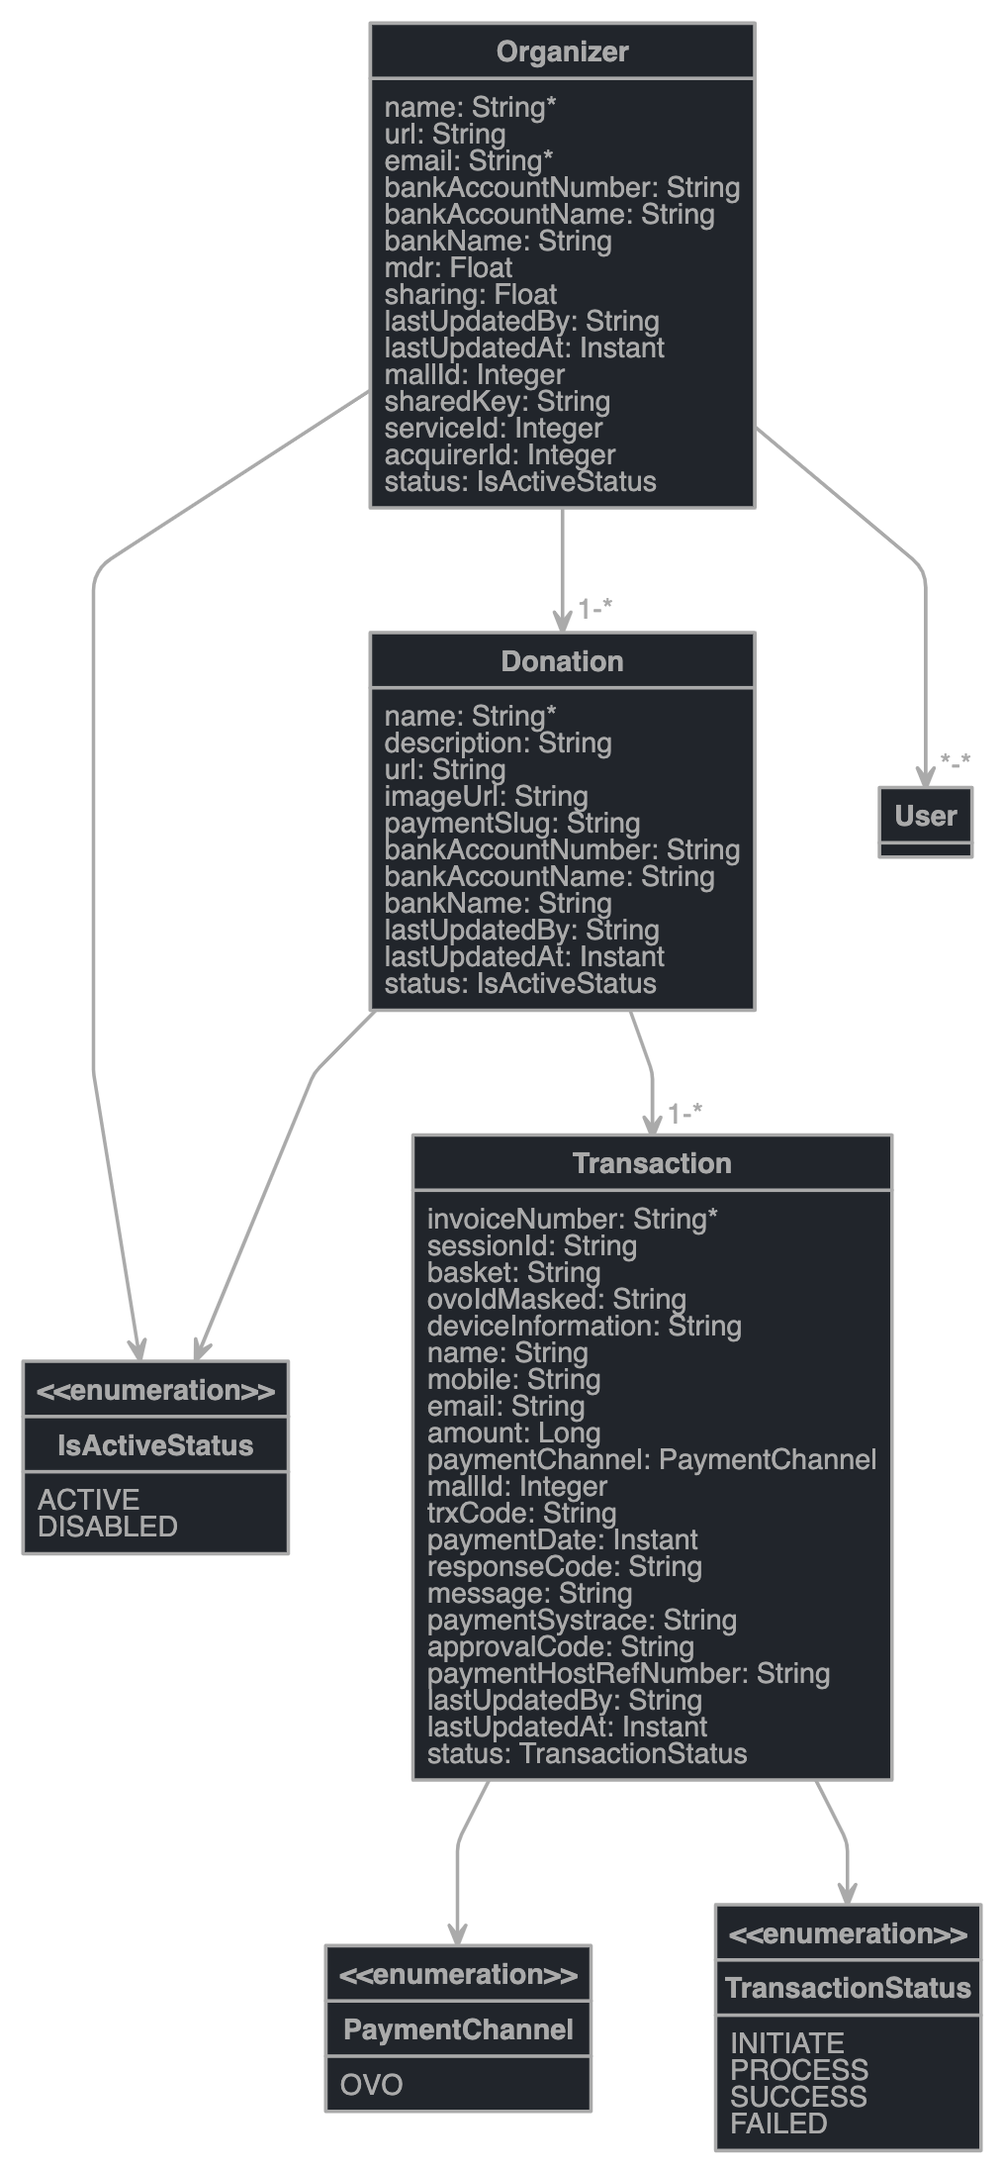
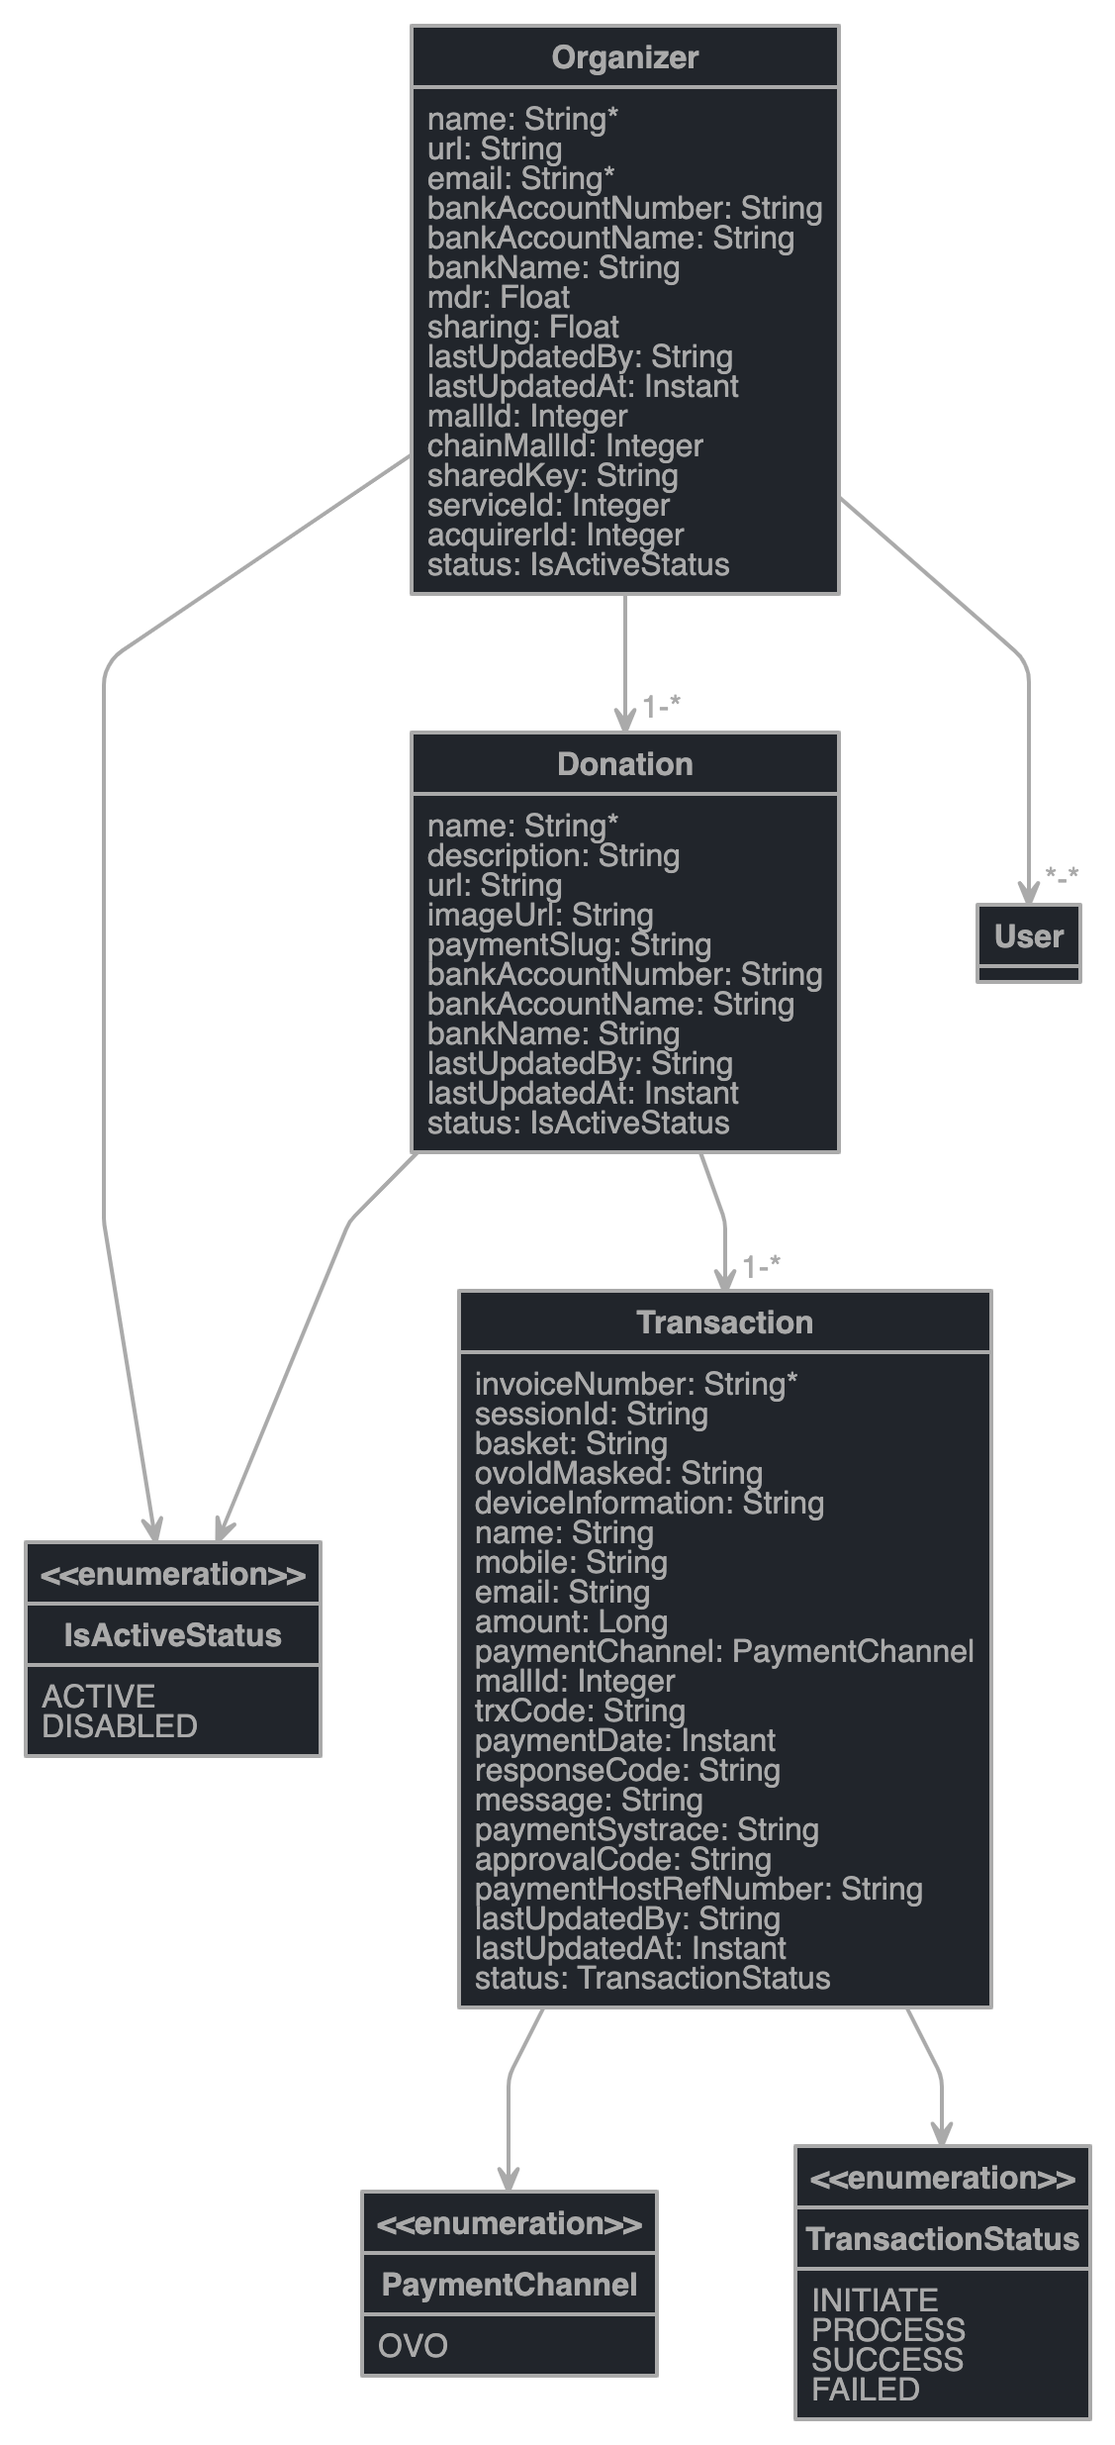
Adding MIB parameter chainMallId.

diff --git a/src/main/webapp/app/entities/organizer/organizer-update.component.html b/src/main/webapp/app/entities/organizer/organizer-update.component.html
@@ -171,10 +171,18 @@
 
                     <div class="my-4">
                         <label class="block text-gray-700 text-sm font-semibold mb-2"
-                            jhiTranslate="donationApp.organizer.mallId" for="field_mallId">Mall Id</label>
+                            jhiTranslate="donationApp.organizer.mallId" for="field_mallId">Mall ID</label>
                         <input type="number"
                             class="text-sm appearance-none rounded w-full py-2 px-3 text-gray-700 bg-gray-200 disabled:bg-gray-400 disabled:cursor-not-allowed leading-tight focus:outline-none focus:shadow-outline h-10"
                             name="mallId" id="field_mallId" formControlName="mallId" />
+                    </div>
+
+                    <div class="my-4">
+                        <label class="block text-gray-700 text-sm font-semibold mb-2"
+                            jhiTranslate="donationApp.organizer.chainMallId" for="field_chainMallId">Chain Mall ID</label>
+                        <input type="number"
+                            class="text-sm appearance-none rounded w-full py-2 px-3 text-gray-700 bg-gray-200 disabled:bg-gray-400 disabled:cursor-not-allowed leading-tight focus:outline-none focus:shadow-outline h-10"
+                            name="chainMallId" id="field_chainMallId" formControlName="chainMallId" />
                     </div>
 
                     <div class="my-4">
@@ -187,7 +195,7 @@
 
                     <div class="my-4">
                         <label class="block text-gray-700 text-sm font-semibold mb-2"
-                            jhiTranslate="donationApp.organizer.serviceId" for="field_serviceId">Service Id</label>
+                            jhiTranslate="donationApp.organizer.serviceId" for="field_serviceId">Service ID</label>
                         <input type="number"
                             class="text-sm appearance-none rounded w-full py-2 px-3 text-gray-700 bg-gray-200 disabled:bg-gray-400 disabled:cursor-not-allowed leading-tight focus:outline-none focus:shadow-outline h-10"
                             name="serviceId" id="field_serviceId" formControlName="serviceId" />
@@ -195,12 +203,12 @@
 
                     <div class="my-4">
                         <label class="block text-gray-700 text-sm font-semibold mb-2"
-                            jhiTranslate="donationApp.organizer.acquirerId" for="field_acquirerId">Acquirer Id</label>
+                            jhiTranslate="donationApp.organizer.acquirerId" for="field_acquirerId">Acquirer ID</label>
                         <input type="number"
                             class="text-sm appearance-none rounded w-full py-2 px-3 text-gray-700 bg-gray-200 disabled:bg-gray-400 disabled:cursor-not-allowed leading-tight focus:outline-none focus:shadow-outline h-10"
                             name="acquirerId" id="field_acquirerId" formControlName="acquirerId" />
                     </div>
-
+                    
                     <div class="my-4">
                         <label class="block text-gray-700 text-sm font-semibold mb-2"
                             jhiTranslate="donationApp.organizer.status" for="field_status">Status</label>

diff --git a/src/main/webapp/app/entities/organizer/organizer-update.component.ts b/src/main/webapp/app/entities/organizer/organizer-update.component.ts
@@ -29,6 +29,7 @@ export class OrganizerUpdateComponent implements OnInit {
     mdr: [null, [Validators.max(100)]],
     sharing: [null, [Validators.max(100)]],
     mallId: [],
+    chainMallId: [],
     sharedKey: [],
     serviceId: [],
     acquirerId: [],
@@ -64,6 +65,7 @@ export class OrganizerUpdateComponent implements OnInit {
       mdr: organizer.mdr,
       sharing: organizer.sharing,
       mallId: organizer.mallId,
+      chainMallId: organizer.chainMallId,
       sharedKey: organizer.sharedKey,
       serviceId: organizer.serviceId,
       acquirerId: organizer.acquirerId,
@@ -99,6 +101,7 @@ export class OrganizerUpdateComponent implements OnInit {
       mdr: this.editForm.get(['mdr'])!.value,
       sharing: this.editForm.get(['sharing'])!.value,
       mallId: this.editForm.get(['mallId'])!.value,
+      chainMallId: this.editForm.get(['chainMallId'])!.value,
       sharedKey: this.editForm.get(['sharedKey'])!.value,
       serviceId: this.editForm.get(['serviceId'])!.value,
       acquirerId: this.editForm.get(['acquirerId'])!.value,

diff --git a/src/test/javascript/spec/app/entities/organizer/organizer.service.spec.ts b/src/test/javascript/spec/app/entities/organizer/organizer.service.spec.ts
@@ -38,6 +38,7 @@ describe('Service Tests', () => {
         'AAAAAAA',
         currentDate,
         0,
+        0,
         'AAAAAAA',
         0,
         0,
@@ -98,6 +99,7 @@ describe('Service Tests', () => {
             lastUpdatedBy: 'BBBBBB',
             lastUpdatedAt: currentDate.format(DATE_TIME_FORMAT),
             mallId: 1,
+            chainMallId: 1,
             sharedKey: 'BBBBBB',
             serviceId: 1,
             acquirerId: 1,
@@ -134,6 +136,7 @@ describe('Service Tests', () => {
             lastUpdatedBy: 'BBBBBB',
             lastUpdatedAt: currentDate.format(DATE_TIME_FORMAT),
             mallId: 1,
+            chainMallId: 1,
             sharedKey: 'BBBBBB',
             serviceId: 1,
             acquirerId: 1,

diff --git a/src/main/webapp/app/entities/organizer/organizer-detail.component.html b/src/main/webapp/app/entities/organizer/organizer-detail.component.html
@@ -89,6 +89,11 @@
                 </div>
 
                 <div class="mb-2 text-gray-800">
+                    <span jhiTranslate="donationApp.organizer.chainMallId">Chain Mall ID</span></dt>
+                    <span>{{ organizer.chainMallId }}</span>
+                </div>
+
+                <div class="mb-2 text-gray-800">
                     <span class="font-semibold" jhiTranslate="donationApp.organizer.sharedKey">Shared Key</span>:
                     <span>{{ organizer.sharedKey }}</span>
                 </div>

diff --git a/src/main/webapp/app/shared/model/organizer.model.ts b/src/main/webapp/app/shared/model/organizer.model.ts
@@ -16,6 +16,7 @@ export interface IOrganizer {
   lastUpdatedBy?: string;
   lastUpdatedAt?: Moment;
   mallId?: number;
+  chainMallId?: number;
   sharedKey?: string;
   serviceId?: number;
   acquirerId?: number;
@@ -38,6 +39,7 @@ export class Organizer implements IOrganizer {
     public lastUpdatedBy?: string,
     public lastUpdatedAt?: Moment,
     public mallId?: number,
+    public chainMallId?: number,
     public sharedKey?: string,
     public serviceId?: number,
     public acquirerId?: number,

diff --git a/src/main/webapp/app/payment/payment.component.html b/src/main/webapp/app/payment/payment.component.html
@@ -122,6 +122,7 @@
                                     *ngIf="paymentForm.get('donor')?.errors?.required"
                                     jhiTranslate="payment.section.form.validation.required">
                                     Please input your name, otherwise you may tick the anonymous checkbox.
+                                </small>
                             </div>
                         </div>
 

diff --git a/src/test/java/men/doku/donation/web/rest/OrganizerResourceIT.java b/src/test/java/men/doku/donation/web/rest/OrganizerResourceIT.java
@@ -82,6 +82,9 @@ public class OrganizerResourceIT {
     private static final Integer DEFAULT_MALL_ID = 1;
     private static final Integer UPDATED_MALL_ID = 2;
 
+    private static final Integer DEFAULT_CHAIN_MALL_ID = 1;
+    private static final Integer UPDATED_CHAIN_MALL_ID = 2;
+
     private static final String DEFAULT_SHARED_KEY = "AAAAAAAAAA";
     private static final String UPDATED_SHARED_KEY = "BBBBBBBBBB";
 
@@ -133,6 +136,7 @@ public class OrganizerResourceIT {
             .lastUpdatedBy(DEFAULT_LAST_UPDATED_BY)
             .lastUpdatedAt(DEFAULT_LAST_UPDATED_AT)
             .mallId(DEFAULT_MALL_ID)
+            .chainMallId(DEFAULT_CHAIN_MALL_ID)
             .sharedKey(DEFAULT_SHARED_KEY)
             .serviceId(DEFAULT_SERVICE_ID)
             .acquirerId(DEFAULT_ACQUIRER_ID)
@@ -158,6 +162,7 @@ public class OrganizerResourceIT {
             .lastUpdatedBy(UPDATED_LAST_UPDATED_BY)
             .lastUpdatedAt(UPDATED_LAST_UPDATED_AT)
             .mallId(UPDATED_MALL_ID)
+            .chainMallId(UPDATED_CHAIN_MALL_ID)
             .sharedKey(UPDATED_SHARED_KEY)
             .serviceId(UPDATED_SERVICE_ID)
             .acquirerId(UPDATED_ACQUIRER_ID)
@@ -196,6 +201,7 @@ public class OrganizerResourceIT {
         assertThat(testOrganizer.getLastUpdatedBy()).isEqualTo(DEFAULT_LAST_UPDATED_BY);
         assertThat(testOrganizer.getLastUpdatedAt()).isEqualTo(DEFAULT_LAST_UPDATED_AT);
         assertThat(testOrganizer.getMallId()).isEqualTo(DEFAULT_MALL_ID);
+        assertThat(testOrganizer.getChainMallId()).isEqualTo(DEFAULT_CHAIN_MALL_ID);
         assertThat(testOrganizer.getSharedKey()).isEqualTo(DEFAULT_SHARED_KEY);
         assertThat(testOrganizer.getServiceId()).isEqualTo(DEFAULT_SERVICE_ID);
         assertThat(testOrganizer.getAcquirerId()).isEqualTo(DEFAULT_ACQUIRER_ID);
@@ -280,14 +286,16 @@ public class OrganizerResourceIT {
             .andExpect(jsonPath("$.[*].lastUpdatedBy").value(hasItem(DEFAULT_LAST_UPDATED_BY)))
             .andExpect(jsonPath("$.[*].lastUpdatedAt").value(hasItem(DEFAULT_LAST_UPDATED_AT.toString())))
             .andExpect(jsonPath("$.[*].mallId").value(hasItem(DEFAULT_MALL_ID)))
+            .andExpect(jsonPath("$.[*].chainMallId").value(hasItem(DEFAULT_CHAIN_MALL_ID)))
             .andExpect(jsonPath("$.[*].sharedKey").value(hasItem(DEFAULT_SHARED_KEY)))
             .andExpect(jsonPath("$.[*].serviceId").value(hasItem(DEFAULT_SERVICE_ID)))
             .andExpect(jsonPath("$.[*].acquirerId").value(hasItem(DEFAULT_ACQUIRER_ID)))
             .andExpect(jsonPath("$.[*].status").value(hasItem(DEFAULT_STATUS.toString())));
     }
     
+    @SuppressWarnings({"unchecked"})
     public void getAllOrganizersWithEagerRelationshipsIsEnabled() throws Exception {
-        when(organizerServiceMock.findAllWithEagerRelationships(any())).thenReturn(new PageImpl<>(new ArrayList<>()));
+        when(organizerServiceMock.findAllWithEagerRelationships(any())).thenReturn(new PageImpl(new ArrayList<>()));
 
         restOrganizerMockMvc.perform(get("/api/organizers?eagerload=true"))
             .andExpect(status().isOk());
@@ -326,6 +334,7 @@ public class OrganizerResourceIT {
             .andExpect(jsonPath("$.lastUpdatedBy").value(DEFAULT_LAST_UPDATED_BY))
             .andExpect(jsonPath("$.lastUpdatedAt").value(DEFAULT_LAST_UPDATED_AT.toString()))
             .andExpect(jsonPath("$.mallId").value(DEFAULT_MALL_ID))
+            .andExpect(jsonPath("$.chainMallId").value(DEFAULT_CHAIN_MALL_ID))
             .andExpect(jsonPath("$.sharedKey").value(DEFAULT_SHARED_KEY))
             .andExpect(jsonPath("$.serviceId").value(DEFAULT_SERVICE_ID))
             .andExpect(jsonPath("$.acquirerId").value(DEFAULT_ACQUIRER_ID))
@@ -364,6 +373,7 @@ public class OrganizerResourceIT {
             .lastUpdatedBy(UPDATED_LAST_UPDATED_BY)
             .lastUpdatedAt(UPDATED_LAST_UPDATED_AT)
             .mallId(UPDATED_MALL_ID)
+            .chainMallId(UPDATED_CHAIN_MALL_ID)
             .sharedKey(UPDATED_SHARED_KEY)
             .serviceId(UPDATED_SERVICE_ID)
             .acquirerId(UPDATED_ACQUIRER_ID)
@@ -389,6 +399,7 @@ public class OrganizerResourceIT {
         assertThat(testOrganizer.getLastUpdatedBy()).isEqualTo(UPDATED_LAST_UPDATED_BY);
         assertThat(testOrganizer.getLastUpdatedAt()).isEqualTo(UPDATED_LAST_UPDATED_AT);
         assertThat(testOrganizer.getMallId()).isEqualTo(UPDATED_MALL_ID);
+        assertThat(testOrganizer.getChainMallId()).isEqualTo(UPDATED_CHAIN_MALL_ID);
         assertThat(testOrganizer.getSharedKey()).isEqualTo(UPDATED_SHARED_KEY);
         assertThat(testOrganizer.getServiceId()).isEqualTo(UPDATED_SERVICE_ID);
         assertThat(testOrganizer.getAcquirerId()).isEqualTo(UPDATED_ACQUIRER_ID);

diff --git a/src/main/java/men/doku/donation/service/dto/MibResponseDTO.java b/src/main/java/men/doku/donation/service/dto/MibResponseDTO.java
@@ -6,6 +6,7 @@ import javax.xml.bind.annotation.XmlRootElement;
 public class MibResponseDTO {
 
     private Integer mallId;
+    private Integer chainMallId;
     private String trxCode;
     private String auth1;
     private String invoiceNumber;
@@ -31,6 +32,7 @@ public class MibResponseDTO {
      * Constructor with all attribute
      * 
      * @param mallId merchant identifier
+     * @param chainMallId merchant chain identifier
      * @param trxCode MIB system identifier
      * @param auth1 masked OVO ID 
      * @param invoiceNumber Merchant transaction identifier
@@ -45,10 +47,11 @@ public class MibResponseDTO {
      * @param approvalCode payment success identifier from OVO
      * @param paymentHostRefNumber payment identifier from OVO
      */
-    public MibResponseDTO(Integer mallId, String trxCode, String auth1, String invoiceNumber, String amount,
+    public MibResponseDTO(Integer mallId, Integer chainMallId, String trxCode, String auth1, String invoiceNumber, String amount,
             String currency, String sessionId, Long paymentDate, String result, String responseCode, String message,
             String paymentSystrace, String approvalCode, String paymentHostRefNumber) {
         this.mallId = mallId;
+        this.chainMallId = chainMallId;
         this.trxCode = trxCode;
         this.auth1 = auth1;
         this.invoiceNumber = invoiceNumber;
@@ -70,6 +73,14 @@ public class MibResponseDTO {
 
     public void setMallId(Integer mallId) {
         this.mallId = mallId;
+    }
+
+    public Integer getChainMallId() {
+        return chainMallId;
+    }
+
+    public void setChainMallId(Integer chainMallId) {
+        this.chainMallId = chainMallId;
     }
 
     public String getTrxCode() {
@@ -178,7 +189,7 @@ public class MibResponseDTO {
 
     @Override
     public String toString() {
-        return "MibResponseDTO [amount=" + amount + ", approvalCode=" + approvalCode + ", auth1=" + auth1
+        return "MibResponseDTO [amount=" + amount + ", approvalCode=" + approvalCode + ", auth1=" + auth1 + ", chainMallId=" + chainMallId
                 + ", currency=" + currency + ", invoiceNumber=" + invoiceNumber + ", mallId=" + mallId + ", message="
                 + message + ", paymentDate=" + paymentDate + ", paymentHostRefNumber=" + paymentHostRefNumber
                 + ", paymentSysTrace=" + paymentSystrace + ", responseCode=" + responseCode + ", result=" + result

diff --git a/src/main/java/men/doku/donation/service/dto/MibRequestDTO.java b/src/main/java/men/doku/donation/service/dto/MibRequestDTO.java
@@ -3,6 +3,7 @@ package men.doku.donation.service.dto;
 public class MibRequestDTO {
 
     private String MALLID;
+    private String CHAINMALLID;
     private String SERVICEID;
     private String ACQUIRERID;
     private String INVOICENUMBER;
@@ -16,9 +17,10 @@ public class MibRequestDTO {
     public MibRequestDTO() {
     }
 
-    public MibRequestDTO(String mALLID, String sERVICEID, String aCQUIRERID, String iNVOICENUMBER, String cURRENCY,
+    public MibRequestDTO(String mALLID, String cHAINMALLID, String sERVICEID, String aCQUIRERID, String iNVOICENUMBER, String cURRENCY,
     String aMOUNT, String sESSIONID, String aUTH1, String bASKET, String wORDS) {
         this.MALLID = mALLID;
+        this.CHAINMALLID = cHAINMALLID;
         this.SERVICEID = sERVICEID;
         this.ACQUIRERID = aCQUIRERID;
         this.INVOICENUMBER = iNVOICENUMBER;
@@ -36,6 +38,14 @@ public class MibRequestDTO {
 
     public void setMALLID(String mALLID) {
         this.MALLID = mALLID;
+    }
+
+    public String getCHAINMALLID() {
+        return CHAINMALLID;
+    }
+
+    public void setCHAINMALLID(String cHAINMALLID) {
+        this.CHAINMALLID = cHAINMALLID;
     }
 
     public String getSERVICEID() {
@@ -113,7 +123,7 @@ public class MibRequestDTO {
     @Override
     public String toString() {
         return "MibRequestDTO [ACQUIRERID=" + ACQUIRERID + ", AMOUNT=" + AMOUNT + ", AUTH1=" + AUTH1 + ", BASKET="
-                + BASKET + ", CURRENCY=" + CURRENCY + ", INVOICENUMBER=" + INVOICENUMBER + ", MALLID=" + MALLID
+                + BASKET + ", CHAINMALLID=" + CHAINMALLID + ", CURRENCY=" + CURRENCY + ", INVOICENUMBER=" + INVOICENUMBER + ", MALLID=" + MALLID
                 + ", SERVICEID=" + SERVICEID + ", SESSIONID=" + SESSIONID + ", WORDS=" + WORDS + "]";
     }
 }

diff --git a/src/main/java/men/doku/donation/domain/Organizer.java b/src/main/java/men/doku/donation/domain/Organizer.java
@@ -92,6 +92,9 @@ public class Organizer implements Serializable {
     @JsonView(AuthoritiesConstants.User.class)
     private Integer mallId;
 
+    @Column(name = "chain_mall_id")
+    private Integer chainMallId;
+
     @Column(name = "shared_key")
     @JsonView(AuthoritiesConstants.User.class)
     private String sharedKey;
@@ -273,6 +276,19 @@ public class Organizer implements Serializable {
         this.mallId = mallId;
     }
 
+    public Integer getChainMallId() {
+        return chainMallId;
+    }
+
+    public Organizer chainMallId(Integer chainMallId) {
+        this.chainMallId = chainMallId;
+        return this;
+    }
+
+    public void setChainMallId(Integer chainMallId) {
+        this.chainMallId = chainMallId;
+    }
+
     public String getSharedKey() {
         return sharedKey;
     }
@@ -405,6 +421,7 @@ public class Organizer implements Serializable {
             ", lastUpdatedBy='" + getLastUpdatedBy() + "'" +
             ", lastUpdatedAt='" + getLastUpdatedAt() + "'" +
             ", mallId=" + getMallId() +
+            ", chainMallId=" + getChainMallId() +
             ", sharedKey='" + getSharedKey() + "'" +
             ", serviceId=" + getServiceId() +
             ", acquirerId=" + getAcquirerId() +

diff --git a/src/main/java/men/doku/donation/service/mapper/MibMapper.java b/src/main/java/men/doku/donation/service/mapper/MibMapper.java
@@ -27,6 +27,7 @@ public class MibMapper {
     public MibRequestDTO toMibRequestDTO(Transaction transaction, Organizer organizer) {
         MibRequestDTO mibRequestDTO = new MibRequestDTO();
         mibRequestDTO.setMALLID(String.valueOf(organizer.getMallId()));
+        mibRequestDTO.setCHAINMALLID(String.valueOf(organizer.getChainMallId()));
         mibRequestDTO.setSERVICEID(String.valueOf(organizer.getServiceId()));
         mibRequestDTO.setACQUIRERID(String.valueOf(organizer.getAcquirerId()));
         mibRequestDTO.setINVOICENUMBER(transaction.getInvoiceNumber());
@@ -54,6 +55,7 @@ public class MibMapper {
     public MultiValueMap<String, String> mibRequestToMultiValueMap(MibRequestDTO mibRequestDTO) {
         MultiValueMap<String, String> body = new LinkedMultiValueMap<>();
         body.add("MALLID", mibRequestDTO.getMALLID());
+        body.add("CHAINMALLID", mibRequestDTO.getCHAINMALLID());
         body.add("SERVICEID", mibRequestDTO.getSERVICEID());
         body.add("ACQUIRERID", mibRequestDTO.getACQUIRERID());
         body.add("INVOICENUMBER", mibRequestDTO.getINVOICENUMBER());
